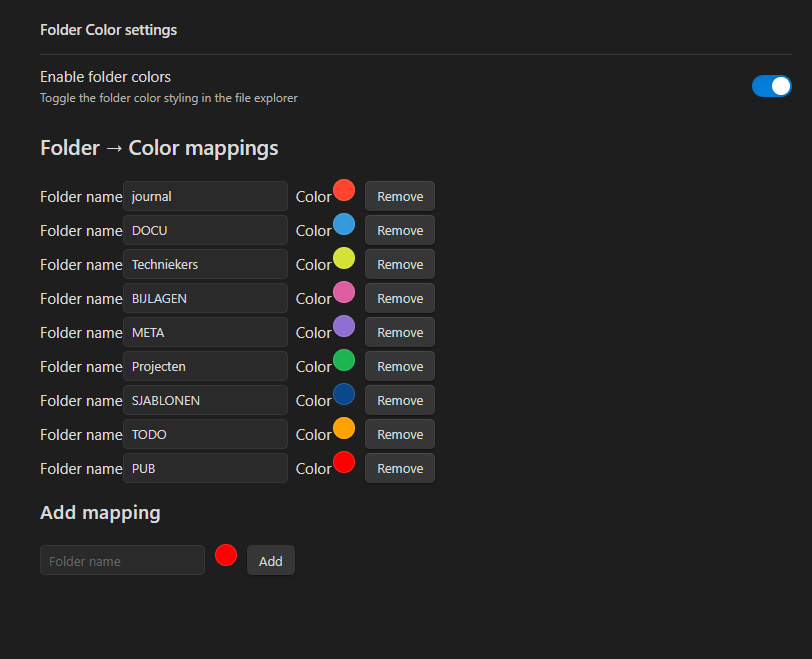
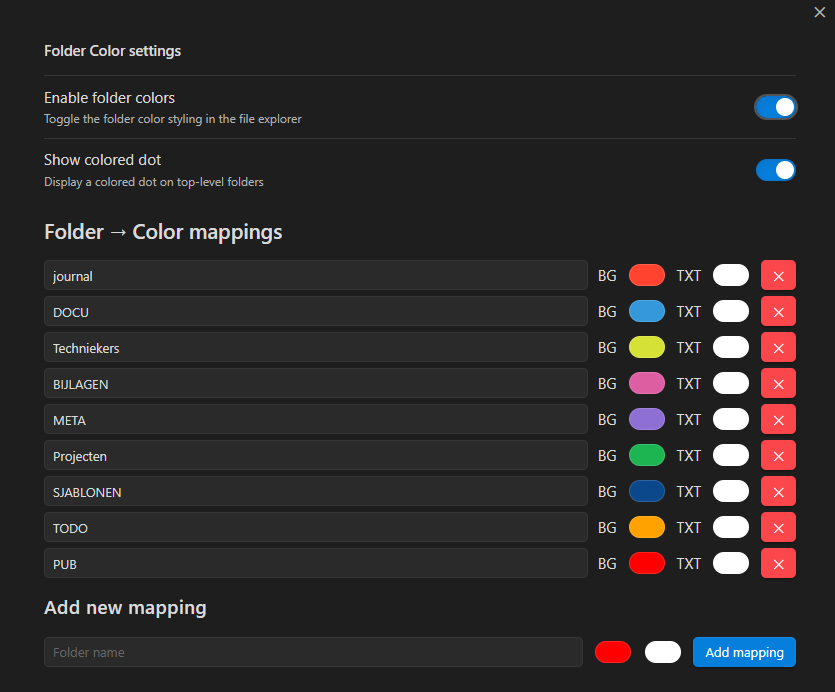
FT (change text color)

diff --git a/build/main.js b/build/main.js
@@ -3,4 +3,4 @@ THIS IS A GENERATED/BUNDLED FILE BY ESBUILD
 if you want to view the source, please visit the github repository of this plugin
 */
 
-var f=Object.defineProperty;var E=Object.getOwnPropertyDescriptor;var x=Object.getOwnPropertyNames;var M=Object.prototype.hasOwnProperty;var S=(i,l)=>{for(var e in l)f(i,e,{get:l[e],enumerable:!0})},w=(i,l,e,t)=>{if(l&&typeof l=="object"||typeof l=="function")for(let s of x(l))!M.call(i,s)&&s!==e&&f(i,s,{get:()=>l[s],enumerable:!(t=E(l,s))||t.enumerable});return i};var T=i=>w(f({},"__esModule",{value:!0}),i);var F={};S(F,{default:()=>h});module.exports=T(F);var c=require("obsidian");var y={enabled:!0,mappings:[{name:"Projects",color:"#e74c3c"},{name:"Design",color:"#3498db"}]},h=class extends c.Plugin{constructor(){super(...arguments);this.settings=y;this.observer=null;this.explorerObservers=new Map}async onload(){this.settings=Object.assign({},y,await this.loadData()),console.log("FolderColorPlugin loaded",this.settings),this.addSettingTab(new v(this.app,this)),this.addCommand({id:"toggle-folder-colors",name:"Toggle folder colors",callback:async()=>{this.settings.enabled=!this.settings.enabled,await this.saveData(this.settings),this.settings.enabled?this.addStyles():this.removeStyles()}}),this.app.workspace.onLayoutReady(()=>{this.settings.enabled&&this.addStyles()})}onunload(){this.removeStyles(),console.log("FolderColorPlugin unloaded")}addStyles(){this.applyMappingsToAllExplorers(),this.setupObserversForExplorers()}removeStyles(){document.querySelectorAll(".tree-item.nav-folder, .nav-folder-title").forEach(t=>{t.style.removeProperty("--tab-color")}),this.observer&&(this.observer.disconnect(),this.observer=null),this.explorerObservers.forEach(t=>t.disconnect()),this.explorerObservers=new Map}applyMappingsToAllExplorers(){document.querySelectorAll('.workspace-leaf-content[data-type="file-explorer"]').forEach(t=>this.applyMappingsToDOM(t))}applyMappingsToDOM(e){let t=this.settings.mappings||[];if(!t.length)return;Array.from(e.querySelectorAll(".tree-item.nav-folder .nav-folder-title")).forEach(n=>{var r;let a=((r=n.textContent)==null?void 0:r.trim())||"",p=t.find(o=>o.name===a),d=n.closest(".tree-item.nav-folder");p&&d&&(d.style.setProperty("--tab-color",p.color),n.style.setProperty("--tab-color",p.color))})}setupObserversForExplorers(){this.observer&&this.observer.disconnect(),this.observer=new MutationObserver(s=>{s.forEach(n=>{n.addedNodes.forEach(a=>{a instanceof HTMLElement&&a.matches('.workspace-leaf-content[data-type="file-explorer"]')&&(this.applyMappingsToDOM(a),this.observeExplorerContainer(a))})})});let e=document.querySelector(".workspace");e&&this.observer.observe(e,{childList:!0,subtree:!0}),document.querySelectorAll('.workspace-leaf-content[data-type="file-explorer"]').forEach(s=>this.observeExplorerContainer(s))}observeExplorerContainer(e){if(this.explorerObservers.has(e))return;let t=new MutationObserver(()=>{this.applyMappingsToDOM(e)});t.observe(e,{childList:!0,subtree:!0}),this.explorerObservers.set(e,t)}},v=class extends c.PluginSettingTab{constructor(e,t){super(e,t);this.plugin=t}display(){let{containerEl:e}=this;e.empty(),e.createEl("h2",{text:"Folder Color settings"}),new c.Setting(e).setName("Enable folder colors").setDesc("Toggle the folder color styling in the file explorer").addToggle(r=>r.setValue(this.plugin.settings.enabled).onChange(async o=>{this.plugin.settings.enabled=o,await this.plugin.saveData(this.plugin.settings),o?this.plugin.addStyles():this.plugin.removeStyles()})),e.createEl("h3",{text:"Folder \u2192 Color mappings"});let t=e.createDiv({cls:"folder-color-list"}),s=this.plugin.settings.mappings||[];s.forEach((r,o)=>{let g=t.createDiv({cls:"folder-mapping-row"});g.createEl("label",{text:"Folder name",cls:"mapping-label"});let u=g.createEl("input",{attr:{type:"text",placeholder:"Folder name",value:r.name}});u.style.marginRight="8px",u.onchange=async()=>{s[o].name=u.value.trim(),await this.plugin.saveData(this.plugin.settings),this.plugin.addStyles(),this.display()},g.createEl("label",{text:"Color",cls:"mapping-label"});let m=g.createEl("input",{attr:{type:"color",value:r.color||"#ff0000"}});m.style.marginRight="8px",m.onchange=async()=>{s[o].color=m.value,await this.plugin.saveData(this.plugin.settings),this.plugin.addStyles()};let b=g.createEl("button",{text:"Remove"});b.onclick=async()=>{s.splice(o,1),await this.plugin.saveData(this.plugin.settings),this.plugin.addStyles(),this.display()}}),e.createEl("h4",{text:"Add mapping"});let n=e.createDiv({cls:"folder-mapping-add"}),a=n.createEl("input",{attr:{type:"text",placeholder:"Folder name"}});a.style.marginRight="8px";let p=n.createEl("input",{attr:{type:"color",value:"#ff0000"}});p.style.marginRight="8px";let d=n.createEl("button",{text:"Add"});d.onclick=async()=>{let r=(a.value||"").trim(),o=p.value||"#ffffff";r&&(this.plugin.settings.mappings=this.plugin.settings.mappings||[],this.plugin.settings.mappings.push({name:r,color:o}),await this.plugin.saveData(this.plugin.settings),this.plugin.addStyles(),this.display())}}};
+var b=Object.defineProperty;var T=Object.getOwnPropertyDescriptor;var M=Object.getOwnPropertyNames;var D=Object.prototype.hasOwnProperty;var F=(a,i)=>{for(var e in i)b(a,e,{get:i[e],enumerable:!0})},C=(a,i,e,t)=>{if(i&&typeof i=="object"||typeof i=="function")for(let s of M(i))!D.call(a,s)&&s!==e&&b(a,s,{get:()=>i[s],enumerable:!(t=T(i,s))||t.enumerable});return a};var L=a=>C(b({},"__esModule",{value:!0}),a);var O={};F(O,{default:()=>v});module.exports=L(O);var g=require("obsidian");var w={enabled:!0,mappings:[{name:"Projects",color:"#e74c3c",textColor:"#ffffff"},{name:"Design",color:"#3498db",textColor:"#ffffff"}],showDot:!0,topFolderFontWeight:800},v=class extends g.Plugin{constructor(){super(...arguments);this.settings=w;this.observer=null;this.explorerObservers=new Map}async onload(){this.settings=Object.assign({},w,await this.loadData()),console.log("FolderColorPlugin loaded",this.settings),this.addSettingTab(new x(this.app,this)),this.addCommand({id:"toggle-folder-colors",name:"Toggle folder colors",callback:async()=>{this.settings.enabled=!this.settings.enabled,await this.saveData(this.settings),this.settings.enabled?this.addStyles():this.removeStyles()}}),this.app.workspace.onLayoutReady(()=>{this.settings.enabled&&this.addStyles()})}onunload(){this.removeStyles(),console.log("FolderColorPlugin unloaded")}addStyles(){this.applyStructuralStyles(),this.settings.enabled&&(this.applyMappingsToAllExplorers(),this.setupObserversForExplorers())}removeStyles(){document.querySelectorAll(".tree-item.nav-folder, .nav-folder-title").forEach(t=>{let s=t;s.style.removeProperty("--tab-color"),s.style.removeProperty("color"),s.style.removeProperty("font-weight"),s.classList.remove("fc-dot-enabled")}),this.observer&&(this.observer.disconnect(),this.observer=null),this.explorerObservers.forEach(t=>t.disconnect()),this.explorerObservers=new Map}applyStructuralStyles(){document.querySelectorAll('.workspace-leaf-content[data-type="file-explorer"]').forEach(t=>{Array.from(t.querySelectorAll(".tree-item.nav-folder .nav-folder-title")).forEach(l=>{l.style.fontWeight=this.settings.topFolderFontWeight.toString(),this.settings.showDot?l.classList.add("fc-dot-enabled"):l.classList.remove("fc-dot-enabled")})})}applyMappingsToAllExplorers(){document.querySelectorAll('.workspace-leaf-content[data-type="file-explorer"]').forEach(t=>this.applyMappingsToDOM(t))}applyMappingsToDOM(e){let t=this.settings.mappings||[];if(!t.length)return;Array.from(e.querySelectorAll(".tree-item.nav-folder .nav-folder-title")).forEach(l=>{var h;let p=((h=l.textContent)==null?void 0:h.trim())||"",c=t.find(o=>o.name===p),d=l.closest(".tree-item.nav-folder");c&&d&&(d.style.setProperty("--tab-color",c.color),l.style.setProperty("--tab-color",c.color),l.style.color=c.textColor||"#ffffff"),this.settings.showDot?l.classList.add("fc-dot-enabled"):l.classList.remove("fc-dot-enabled"),l.style.fontWeight=this.settings.topFolderFontWeight.toString()})}setupObserversForExplorers(){this.observer&&this.observer.disconnect(),this.observer=new MutationObserver(s=>{s.forEach(l=>{l.addedNodes.forEach(p=>{p instanceof HTMLElement&&p.matches('.workspace-leaf-content[data-type="file-explorer"]')&&(this.applyMappingsToDOM(p),this.observeExplorerContainer(p))})})});let e=document.querySelector(".workspace");e&&this.observer.observe(e,{childList:!0,subtree:!0}),document.querySelectorAll('.workspace-leaf-content[data-type="file-explorer"]').forEach(s=>this.observeExplorerContainer(s))}observeExplorerContainer(e){if(this.explorerObservers.has(e))return;let t=new MutationObserver(()=>{this.applyMappingsToDOM(e)});t.observe(e,{childList:!0,subtree:!0}),this.explorerObservers.set(e,t)}},x=class extends g.PluginSettingTab{constructor(e,t){super(e,t);this.plugin=t}display(){let{containerEl:e}=this;if(e.empty(),e.createEl("h2",{text:"Folder Color settings"}),new g.Setting(e).setName("Enable folder colors").setDesc("Toggle the folder color styling in the file explorer").addToggle(o=>o.setValue(this.plugin.settings.enabled).onChange(async n=>{this.plugin.settings.enabled=n,await this.plugin.saveData(this.plugin.settings),n?this.plugin.addStyles():this.plugin.removeStyles(),this.display()})),!this.plugin.settings.enabled){let o=e.createEl("p",{text:"Folder colors are currently disabled. Enable them to configure mappings."});o.style.color="var(--text-muted)",o.style.fontStyle="italic";return}new g.Setting(e).setName("Show colored dot").setDesc("Display a colored dot on top-level folders").addToggle(o=>o.setValue(this.plugin.settings.showDot).onChange(async n=>{this.plugin.settings.showDot=n,await this.plugin.saveData(this.plugin.settings),this.plugin.settings.enabled&&this.plugin.addStyles()})),e.createEl("h3",{text:"Folder \u2192 Color mappings"});let t=e.createDiv({cls:"folder-color-list"}),s=this.plugin.settings.mappings||[];s.forEach((o,n)=>{let r=t.createDiv({cls:"folder-mapping-row"});r.style.display="flex",r.style.alignItems="center",r.style.gap="10px",r.style.marginBottom="6px";let y=r.createEl("input",{attr:{type:"text",placeholder:"Folder name",value:o.name}});y.classList.add("folder-name-input"),y.style.flex="1",y.onchange=async()=>{s[n].name=y.value.trim(),await this.plugin.saveData(this.plugin.settings),this.plugin.settings.enabled&&this.plugin.addStyles(),this.display()};let E=r.createEl("span",{text:"BG",cls:"mapping-label"});E.title="Background color";let f=r.createEl("input",{attr:{type:"color",value:o.color||"#ff0000"}});f.style.width="40px",f.style.height="28px",f.style.cursor="pointer",f.onchange=async()=>{s[n].color=f.value,await this.plugin.saveData(this.plugin.settings),this.plugin.settings.enabled&&this.plugin.addStyles()};let S=r.createEl("span",{text:"TXT",cls:"mapping-label"});S.title="Text color";let u=r.createEl("input",{attr:{type:"color",value:o.textColor||"#ffffff"}});u.style.width="40px",u.style.height="28px",u.style.cursor="pointer",u.onchange=async()=>{s[n].textColor=u.value,await this.plugin.saveData(this.plugin.settings),this.plugin.settings.enabled&&this.plugin.addStyles()};let m=r.createEl("button",{text:"\u2715"});m.classList.add("mod-warning"),m.style.marginLeft="auto",m.title="Remove this mapping",m.onclick=async()=>{s.splice(n,1),await this.plugin.saveData(this.plugin.settings),this.plugin.settings.enabled&&this.plugin.addStyles(),this.display()}}),e.createEl("h4",{text:"Add new mapping"});let l=e.createDiv({cls:"folder-mapping-add"});l.style.display="flex",l.style.alignItems="center",l.style.gap="10px",l.style.marginTop="8px";let p=l.createEl("input",{attr:{type:"text",placeholder:"Folder name"}});p.style.flex="1";let c=l.createEl("input",{attr:{type:"color",value:"#ff0000"}});c.style.width="40px",c.style.height="28px",c.style.cursor="pointer";let d=l.createEl("input",{attr:{type:"color",value:"#ffffff"}});d.style.width="40px",d.style.height="28px",d.style.cursor="pointer";let h=l.createEl("button",{text:"Add mapping"});h.classList.add("mod-cta"),h.onclick=async()=>{let o=(p.value||"").trim();if(!o)return;let n=c.value||"#ffffff",r=d.value||"#ffffff";this.plugin.settings.mappings.push({name:o,color:n,textColor:r}),await this.plugin.saveData(this.plugin.settings),this.plugin.settings.enabled&&this.plugin.addStyles(),this.display()}}};

diff --git a/src/main.ts b/src/main.ts
@@ -3,20 +3,25 @@ import './styles.css';
 
 interface FolderMapping {
 	name: string;
-	color: string; // hex
+	color: string;
+	textColor: string;
 }
 
 interface FolderColorSettings {
 	enabled: boolean;
 	mappings: FolderMapping[];
+	showDot: boolean;
+	topFolderFontWeight: number;
 }
 
 const DEFAULT_SETTINGS: FolderColorSettings = {
 	enabled: true,
 	mappings: [
-		{ name: 'Projects', color: '#e74c3c' },
-		{ name: 'Design', color: '#3498db' },
+		{ name: 'Projects', color: '#e74c3c', textColor: '#ffffff' },
+		{ name: 'Design', color: '#3498db', textColor: '#ffffff' },
 	],
+	showDot: true,
+	topFolderFontWeight: 800,
 };
 
 export default class FolderColorPlugin extends Plugin {
@@ -61,28 +66,60 @@ export default class FolderColorPlugin extends Plugin {
 	/** --------------------- Core functionality --------------------- **/
 
 	public addStyles() {
-		this.applyMappingsToAllExplorers();
-		this.setupObserversForExplorers();
+		this.applyStructuralStyles(); // always apply structural stuff
+		if (this.settings.enabled) {
+			this.applyMappingsToAllExplorers(); // colors only if enabled
+			this.setupObserversForExplorers();
+		}
 	}
 
 	public removeStyles() {
-		// Remove all inline colors
-		const allFolderItems = document.querySelectorAll(
-			'.tree-item.nav-folder, .nav-folder-title'
+    // Remove all inline colors and font weights
+    const allFolderItems = document.querySelectorAll(
+        '.tree-item.nav-folder, .nav-folder-title'
+    );
+    allFolderItems.forEach((el) => {
+        const htmlEl = el as HTMLElement;
+        htmlEl.style.removeProperty('--tab-color');
+        htmlEl.style.removeProperty('color');
+        htmlEl.style.removeProperty('font-weight');
+
+        // Remove dot class
+        htmlEl.classList.remove('fc-dot-enabled');
+    });
+
+    // Disconnect main observer
+    if (this.observer) {
+        this.observer.disconnect();
+        this.observer = null;
+    }
+
+    // Disconnect all explorer-specific observers
+    this.explorerObservers.forEach((obs) => obs.disconnect());
+    this.explorerObservers = new Map();
+}
+	private applyStructuralStyles() {
+		const explorers = document.querySelectorAll(
+			'.workspace-leaf-content[data-type="file-explorer"]'
 		);
-		allFolderItems.forEach((el) => {
-			(el as HTMLElement).style.removeProperty('--tab-color');
+
+		explorers.forEach((explorer) => {
+			const folderTitleEls = Array.from(
+				explorer.querySelectorAll('.tree-item.nav-folder .nav-folder-title')
+			) as HTMLElement[];
+
+			folderTitleEls.forEach((titleEl) => {
+				// Font weight for top-level folders
+				titleEl.style.fontWeight = this.settings.topFolderFontWeight.toString();
+
+				// Show/hide dot
+				if (this.settings.showDot) {
+					titleEl.classList.add('fc-dot-enabled');
+				} else {
+					titleEl.classList.remove('fc-dot-enabled');
+				}
+			});
 		});
-
-		// Disconnect main observer
-		if (this.observer) {
-			this.observer.disconnect();
-			this.observer = null;
-		}
-
-		// Disconnect all explorer-specific observers
-		this.explorerObservers.forEach((obs) => obs.disconnect());
-		this.explorerObservers = new Map();
 	}
 
 	/** Apply mappings to all currently available explorers */
@@ -101,20 +138,27 @@ export default class FolderColorPlugin extends Plugin {
 		if (!mappings.length) return;
 
 		const folderTitleEls = Array.from(
-			container.querySelectorAll(
-				'.tree-item.nav-folder .nav-folder-title'
-			)
+			container.querySelectorAll('.tree-item.nav-folder .nav-folder-title')
 		) as HTMLElement[];
+
 		folderTitleEls.forEach((titleEl) => {
 			const text = titleEl.textContent?.trim() || '';
 			const mapping = mappings.find((m) => m.name === text);
-			const folderItem = titleEl.closest(
-				'.tree-item.nav-folder'
-			) as HTMLElement | null;
+			const folderItem = titleEl.closest('.tree-item.nav-folder') as HTMLElement | null;
 			if (mapping && folderItem) {
 				folderItem.style.setProperty('--tab-color', mapping.color);
 				titleEl.style.setProperty('--tab-color', mapping.color);
+				titleEl.style.color = mapping.textColor || '#ffffff';
 			}
+			// Show/hide dot
+			if (this.settings.showDot) {
+				titleEl.classList.add('fc-dot-enabled');
+			} else {
+				titleEl.classList.remove('fc-dot-enabled');
+			}
+
+			// Set font weight for top-level folders
+			titleEl.style.fontWeight = this.settings.topFolderFontWeight.toString();
 		});
 	}
 
@@ -179,7 +223,6 @@ class FolderColorSettingTab extends PluginSettingTab {
 	display(): void {
 		const { containerEl } = this;
 		containerEl.empty();
-
 		containerEl.createEl('h2', { text: 'Folder Color settings' });
 
 		new Setting(containerEl)
@@ -191,63 +234,145 @@ class FolderColorSettingTab extends PluginSettingTab {
 					.onChange(async (value) => {
 						this.plugin.settings.enabled = value;
 						await this.plugin.saveData(this.plugin.settings);
+
+						// Apply or remove styles immediately
 						if (value) this.plugin.addStyles();
 						else this.plugin.removeStyles();
+
+						// Re-render settings panel so sections hide/show instantly
+						this.display();
 					})
 			);
 
+		// --- Hide everything else if disabled ---
+		if (!this.plugin.settings.enabled) {
+			const note = containerEl.createEl('p', {
+				text: 'Folder colors are currently disabled. Enable them to configure mappings.',
+			});
+			note.style.color = 'var(--text-muted)';
+			note.style.fontStyle = 'italic';
+			return; // stop rendering the rest
+		}
+
+		new Setting(containerEl)
+			.setName('Show colored dot')
+			.setDesc('Display a colored dot on top-level folders')
+			.addToggle((toggle) =>
+				toggle
+					.setValue(this.plugin.settings.showDot)
+					.onChange(async (value) => {
+						this.plugin.settings.showDot = value;
+						await this.plugin.saveData(this.plugin.settings);
+						if (this.plugin.settings.enabled) this.plugin.addStyles();
+					})
+			);
 		// Mappings list
 		containerEl.createEl('h3', { text: 'Folder → Color mappings' });
 		const list = containerEl.createDiv({ cls: 'folder-color-list' });
-
 		const mappings = this.plugin.settings.mappings || [];
+
 		mappings.forEach((m, idx) => {
 			const row = list.createDiv({ cls: 'folder-mapping-row' });
-			row.createEl('label', { text: 'Folder name', cls: 'mapping-label' });
-                const nameInput = row.createEl('input', { attr: { type: 'text', placeholder: 'Folder name', value: m.name } });
-			nameInput.style.marginRight = '8px';
+			row.style.display = 'flex';
+			row.style.alignItems = 'center';
+			row.style.gap = '10px';
+			row.style.marginBottom = '6px';
+
+			// Folder name
+			const nameInput = row.createEl('input', {
+				attr: { type: 'text', placeholder: 'Folder name', value: m.name },
+			});
+			nameInput.classList.add('folder-name-input');
+			nameInput.style.flex = '1';
 			nameInput.onchange = async () => {
 				mappings[idx].name = nameInput.value.trim();
 				await this.plugin.saveData(this.plugin.settings);
-				this.plugin.addStyles();
+				if (this.plugin.settings.enabled) this.plugin.addStyles();
 				this.display();
 			};
 
-			row.createEl('label', { text: 'Color', cls: 'mapping-label' });
-			const colorInput = row.createEl('input', { attr: { type: 'color', value: m.color || '#ff0000' } });
-			colorInput.style.marginRight = '8px';
+			// Background color
+			const colorLabel = row.createEl('span', { text: 'BG', cls: 'mapping-label' });
+			colorLabel.title = 'Background color';
+			const colorInput = row.createEl('input', {
+				attr: { type: 'color', value: m.color || '#ff0000' },
+			});
+			colorInput.style.width = '40px';
+			colorInput.style.height = '28px';
+			colorInput.style.cursor = 'pointer';
 			colorInput.onchange = async () => {
 				mappings[idx].color = colorInput.value;
 				await this.plugin.saveData(this.plugin.settings);
-				this.plugin.addStyles();
+				if (this.plugin.settings.enabled) this.plugin.addStyles();
 			};
 
-			const removeBtn = row.createEl('button', { text: 'Remove' });
+			// Text color
+			const textLabel = row.createEl('span', { text: 'TXT', cls: 'mapping-label' });
+			textLabel.title = 'Text color';
+			const textColorInput = row.createEl('input', {
+				attr: { type: 'color', value: m.textColor || '#ffffff' },
+			});
+			textColorInput.style.width = '40px';
+			textColorInput.style.height = '28px';
+			textColorInput.style.cursor = 'pointer';
+			textColorInput.onchange = async () => {
+				mappings[idx].textColor = textColorInput.value;
+				await this.plugin.saveData(this.plugin.settings);
+				if (this.plugin.settings.enabled) this.plugin.addStyles();
+			};
+
+			// Remove button
+			const removeBtn = row.createEl('button', { text: '✕' });
+			removeBtn.classList.add('mod-warning');
+			removeBtn.style.marginLeft = 'auto';
+			removeBtn.title = 'Remove this mapping';
 			removeBtn.onclick = async () => {
 				mappings.splice(idx, 1);
 				await this.plugin.saveData(this.plugin.settings);
-				this.plugin.addStyles();
+				if (this.plugin.settings.enabled) this.plugin.addStyles();
 				this.display();
 			};
 		});
 
 		// Add new mapping
-		containerEl.createEl('h4', { text: 'Add mapping' });
+		containerEl.createEl('h4', { text: 'Add new mapping' });
 		const addRow = containerEl.createDiv({ cls: 'folder-mapping-add' });
-		const newName = addRow.createEl('input', { attr: { type: 'text', placeholder: 'Folder name' } });
-		newName.style.marginRight = '8px';
-		const newColor = addRow.createEl('input', { attr: { type: 'color', value: '#ff0000' } });
-		newColor.style.marginRight = '8px';
-		const addBtn = addRow.createEl('button', { text: 'Add' });
+		addRow.style.display = 'flex';
+		addRow.style.alignItems = 'center';
+		addRow.style.gap = '10px';
+		addRow.style.marginTop = '8px';
+
+		const newName = addRow.createEl('input', {
+			attr: { type: 'text', placeholder: 'Folder name' },
+		});
+		newName.style.flex = '1';
+
+		const newColor = addRow.createEl('input', {
+			attr: { type: 'color', value: '#ff0000' },
+		});
+		newColor.style.width = '40px';
+		newColor.style.height = '28px';
+		newColor.style.cursor = 'pointer';
+
+		const newTextColor = addRow.createEl('input', {
+			attr: { type: 'color', value: '#ffffff' },
+		});
+		newTextColor.style.width = '40px';
+		newTextColor.style.height = '28px';
+		newTextColor.style.cursor = 'pointer';
+
+		const addBtn = addRow.createEl('button', { text: 'Add mapping' });
+		addBtn.classList.add('mod-cta');
 		addBtn.onclick = async () => {
 			const name = (newName.value || '').trim();
-			const color = newColor.value || '#ffffff';
 			if (!name) return;
-			this.plugin.settings.mappings = this.plugin.settings.mappings || [];
-			this.plugin.settings.mappings.push({ name, color });
+			const color = newColor.value || '#ffffff';
+			const textColor = newTextColor.value || '#ffffff';
+			this.plugin.settings.mappings.push({ name, color, textColor });
 			await this.plugin.saveData(this.plugin.settings);
-			this.plugin.addStyles();
+			if (this.plugin.settings.enabled) this.plugin.addStyles();
 			this.display();
 		};
+
 	}
 }

diff --git a/build/styles.css b/build/styles.css
@@ -1,1 +1,1 @@
-.workspace-leaf-content[data-type=file-explorer]>.nav-files-container>div>.tree-item.nav-folder{position:relative;transition:all .2s ease}.workspace-leaf-content[data-type=file-explorer]>.nav-files-container>div>.tree-item.nav-folder.is-collapsed{border:1px solid color-mix(in srgb,var(--tab-color) 20%,transparent);border-radius:4px;margin-bottom:6px;padding:0;transition:border-color .2s ease}.workspace-leaf-content[data-type=file-explorer]>.nav-files-container>div>.tree-item.nav-folder:not(.is-collapsed){border-left:3px solid var(--tab-color);border-top:1px solid color-mix(in srgb,var(--tab-color) 35%,transparent);border-bottom:1px solid color-mix(in srgb,var(--tab-color) 35%,transparent);border-right:1px solid color-mix(in srgb,var(--tab-color) 25%,transparent);border-radius:0% 5px 5px;background:none;padding:0;margin-bottom:6px;transition:all .2s ease}.workspace-leaf-content[data-type=file-explorer]>.nav-files-container>div>.tree-item.nav-folder>.nav-folder-title{background:none!important;color:var(--text-normal);font-weight:800;position:relative}.tree-item.nav-folder .tree-item.nav-folder .nav-folder-title{font-weight:500;color:var(--text-normal);background:none!important;position:relative}.workspace-leaf-content[data-type=file-explorer]>.nav-files-container>div>.tree-item.nav-folder>.nav-folder-title:after{content:"\2b24";color:var(--tab-color);opacity:.7;position:absolute;right:.5rem;top:50%;transform:translateY(-50%)}.workspace-leaf-content[data-type=file-explorer]>.nav-files-container>div>.tree-item.nav-folder>.nav-folder-title:before{content:"";position:absolute;left:-3px;top:53%;transform:translateY(-50%);width:4px;height:115%;background-color:var(--tab-color);border-top-left-radius:5px;border-bottom-left-radius:5px;transition:all .2s ease}.workspace-leaf-content[data-type=file-explorer]>.nav-files-container>div>.tree-item.nav-folder:not(.is-collapsed)>.nav-folder-title:before{left:-12px;top:48%;width:12px;height:105%}.workspace-leaf-content[data-type=file-explorer]>.nav-files-container>div>.tree-item.nav-folder:not(.is-collapsed):hover{box-shadow:0 0 8px color-mix(in srgb,var(--tab-color) 60%,transparent)}.workspace-leaf-content[data-type=file-explorer]>.nav-files-container>div>.tree-item.nav-folder.is-collapsed:hover,.workspace-leaf-content[data-type=file-explorer]>.nav-files-container>div>.tree-item.nav-note.is-collapsed:hover{background:color-mix(in srgb,var(--tab-color) 30%,var(--background-secondary));transform:translateY(0);transition:background .2s ease,transform .2s ease}.workspace-leaf-content[data-type=file-explorer] .tree-item-self.is-clickable.nav-folder-title:hover,.workspace-leaf-content[data-type=file-explorer] .tree-item.nav-note:hover,.workspace-leaf-content[data-type=file-explorer] .tree-item.nav-file:hover{background-color:color-mix(in srgb,var(--tab-color) 30%,var(--background-secondary))!important;color:var(--text-normal)!important;border-radius:5px!important;margin-right:4px!important;transition:background .2s ease,transform .2s ease}.workspace-leaf-content[data-type=file-explorer] .tree-item-self.nav-file-title.is-active,.workspace-leaf-content[data-type=file-explorer] .tree-item-self.nav-file-title.has-focus{background-color:color-mix(in srgb,var(--tab-color) 50%,var(--background-secondary))!important;color:var(--text-normal)!important;font-weight:700;border-radius:4px;margin-right:8px!important;left:4px!important;transition:background .2s ease,transform .2s ease}@keyframes pulse-focus{0%{box-shadow:0 0 #fff6}50%{box-shadow:0 0 0 6px #fff3}to{box-shadow:0 0 #fff0}}.workspace-leaf-content[data-type=file-explorer] .tree-item-self.nav-file-title.has-focus{animation:pulse-focus 1.5s infinite}
+.workspace-leaf-content[data-type=file-explorer]>.nav-files-container>div>.tree-item.nav-folder{position:relative;transition:all .2s ease}.workspace-leaf-content[data-type=file-explorer]>.nav-files-container>div>.tree-item.nav-folder.is-collapsed{border:1px solid color-mix(in srgb,var(--tab-color) 20%,transparent);border-radius:4px;margin-bottom:6px;padding:0;transition:border-color .2s ease}.workspace-leaf-content[data-type=file-explorer]>.nav-files-container>div>.tree-item.nav-folder:not(.is-collapsed){border-left:3px solid var(--tab-color);border-top:1px solid color-mix(in srgb,var(--tab-color) 35%,transparent);border-bottom:1px solid color-mix(in srgb,var(--tab-color) 35%,transparent);border-right:1px solid color-mix(in srgb,var(--tab-color) 25%,transparent);border-radius:0% 5px 5px;background:none;padding:0;margin-bottom:6px;transition:all .2s ease}.workspace-leaf-content[data-type=file-explorer]>.nav-files-container>div>.tree-item.nav-folder>.nav-folder-title{background:none!important;color:var(--text-normal);font-weight:800;position:relative}.tree-item.nav-folder .tree-item.nav-folder .nav-folder-title{font-weight:500;color:var(--text-normal);background:none!important;position:relative}.workspace-leaf-content[data-type=file-explorer]>.nav-files-container>div>.tree-item.nav-folder>.nav-folder-title.fc-dot-enabled:after{content:"\2b24";color:var(--tab-color);opacity:.7;position:absolute;right:.5rem;top:50%;transform:translateY(-50%)}.workspace-leaf-content[data-type=file-explorer]>.nav-files-container>div>.tree-item.nav-folder>.nav-folder-title:before{content:"";position:absolute;left:-3px;top:53%;transform:translateY(-50%);width:4px;height:115%;background-color:var(--tab-color);border-top-left-radius:5px;border-bottom-left-radius:5px;transition:all .2s ease}.workspace-leaf-content[data-type=file-explorer]>.nav-files-container>div>.tree-item.nav-folder:not(.is-collapsed)>.nav-folder-title:before{left:-12px;top:48%;width:12px;height:105%}.workspace-leaf-content[data-type=file-explorer]>.nav-files-container>div>.tree-item.nav-folder:not(.is-collapsed):hover{box-shadow:0 0 8px color-mix(in srgb,var(--tab-color) 60%,transparent)}.workspace-leaf-content[data-type=file-explorer]>.nav-files-container>div>.tree-item.nav-folder.is-collapsed:hover,.workspace-leaf-content[data-type=file-explorer]>.nav-files-container>div>.tree-item.nav-note.is-collapsed:hover{background:color-mix(in srgb,var(--tab-color) 30%,var(--background-secondary));transform:translateY(0);transition:background .2s ease,transform .2s ease}.workspace-leaf-content[data-type=file-explorer] .tree-item-self.is-clickable.nav-folder-title:hover,.workspace-leaf-content[data-type=file-explorer] .tree-item.nav-note:hover,.workspace-leaf-content[data-type=file-explorer] .tree-item.nav-file:hover{background-color:color-mix(in srgb,var(--tab-color) 30%,var(--background-secondary))!important;color:var(--text-normal)!important;border-radius:5px!important;margin-right:4px!important;transition:background .2s ease,transform .2s ease}.workspace-leaf-content[data-type=file-explorer] .tree-item-self.nav-file-title.is-active,.workspace-leaf-content[data-type=file-explorer] .tree-item-self.nav-file-title.has-focus{background-color:color-mix(in srgb,var(--tab-color) 50%,var(--background-secondary))!important;color:var(--text-normal)!important;font-weight:700;border-radius:4px;margin-right:8px!important;left:4px!important;transition:background .2s ease,transform .2s ease}@keyframes pulse-focus{0%{box-shadow:0 0 #fff6}50%{box-shadow:0 0 0 6px #fff3}to{box-shadow:0 0 #fff0}}.workspace-leaf-content[data-type=file-explorer] .tree-item-self.nav-file-title.has-focus{animation:pulse-focus 1.5s infinite}

diff --git a/src/styles.css b/src/styles.css
@@ -48,7 +48,7 @@
 }
 
 /* --- Right-side dot --- */
-.workspace-leaf-content[data-type="file-explorer"]>.nav-files-container>div>.tree-item.nav-folder>.nav-folder-title::after {
+.workspace-leaf-content[data-type="file-explorer"]>.nav-files-container>div>.tree-item.nav-folder>.nav-folder-title.fc-dot-enabled::after {
     content: "⬤";
     color: var(--tab-color);
     opacity: 0.7;

diff --git a/README.md b/README.md
@@ -2,13 +2,18 @@
 
 
 ## Description
-work in progress
+Folder Color Plugin – Enhance the Obsidian default theme file explorer by adding colored folder labels, optional colored dots for top-level folders, and bold fonts to clearly distinguish top-level folders from subfolders. Updates dynamically as folders are added or renamed.
+
+use it with the "iconic plugin" to add custom icons to folders: https://obsidian.md/plugins?id=iconic
+usi it with "custom file explorer sorting" to customize the order of folders and files: https://obsidian.md/plugins?id=custom-sort
 
 ## Screenshot
+### Example
 ![alt text](docs/image2.png)
 ![alt text](docs/image.png)
-![alt text](docs/settings.png)
 
+### Settings
+![alt text](docs/settings.png)
 
 
 
